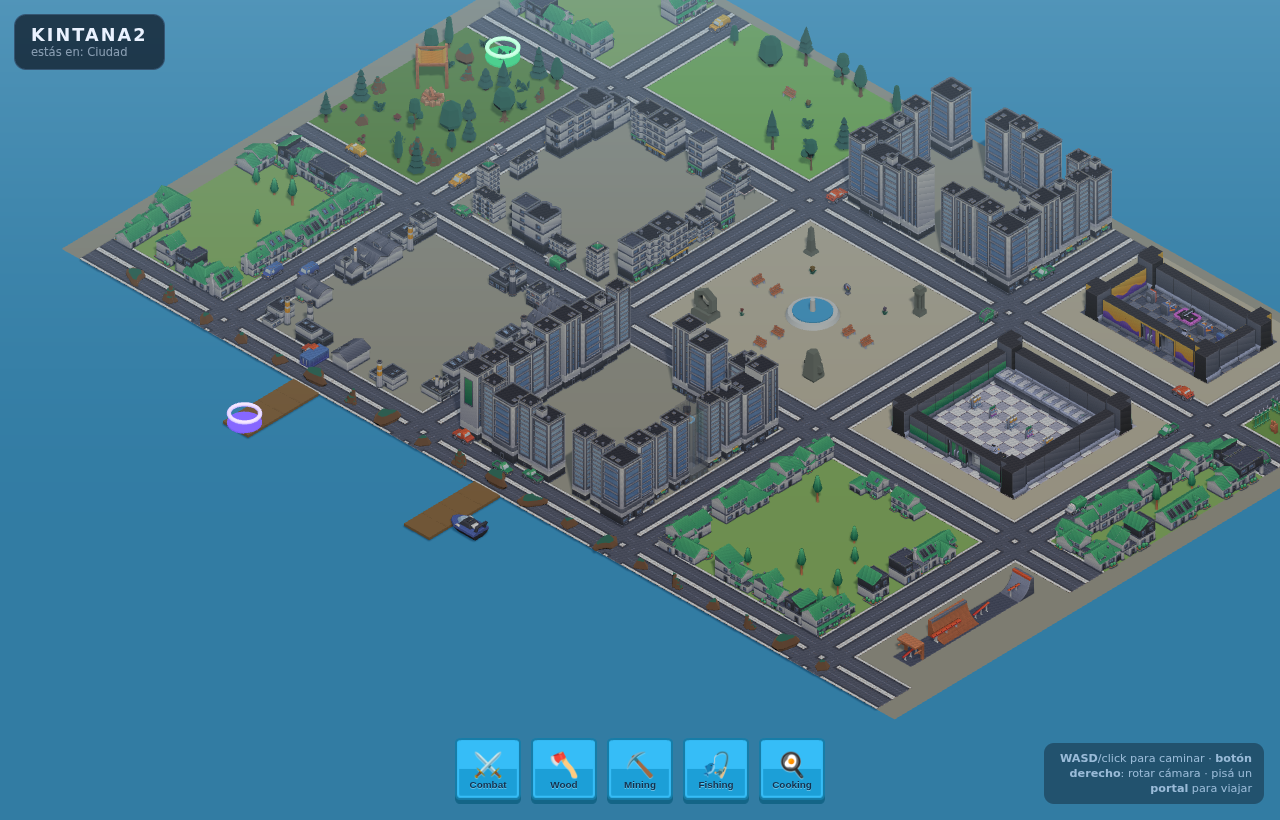
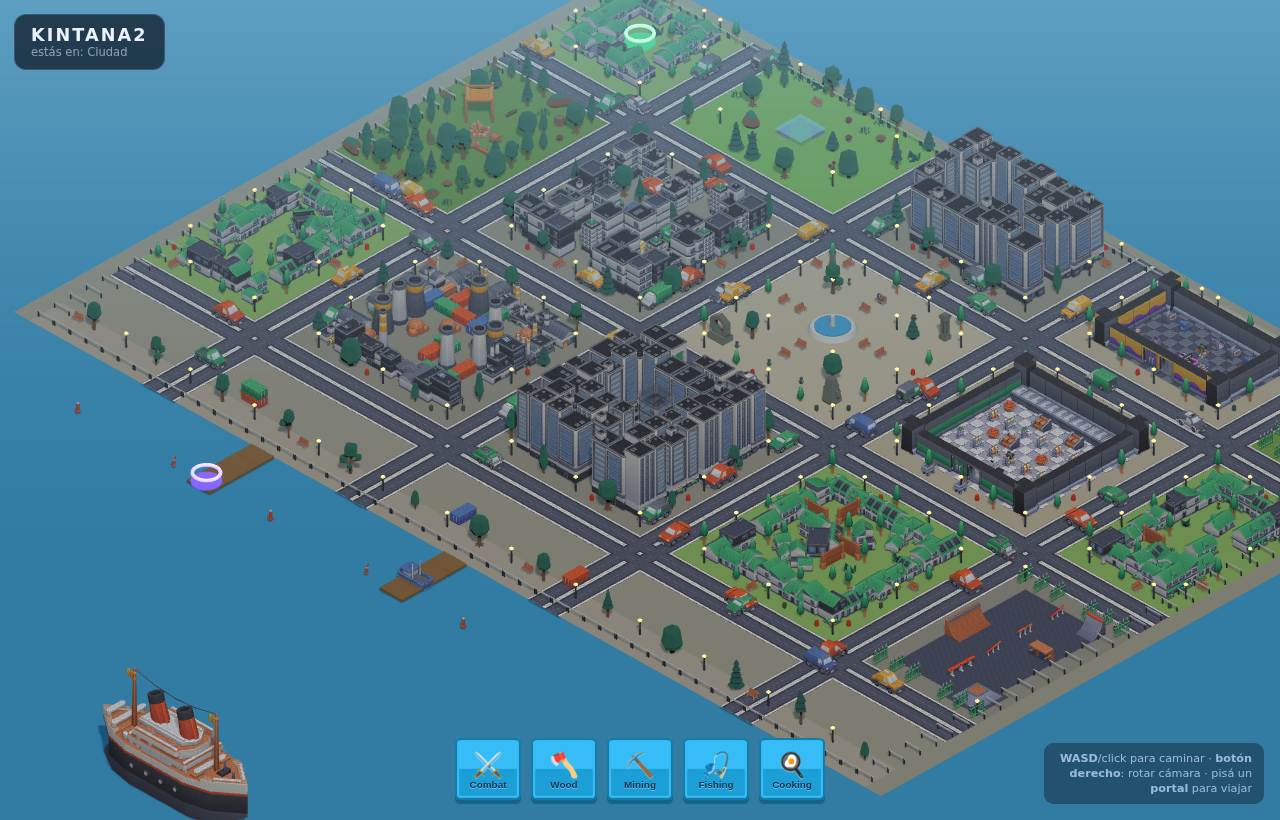
Densidad: ciudad mas grande y llena, mobiliario urbano, veredas anchas, autos mas grandes, mundos enriquecidos
- Ciudad 52x52 (mas grande) con manzanas grandes; edificios en mas anillos
  e INTERIORES LLENOS segun zona (torres, autos, contenedores, jardines)
- Mobiliario urbano en todas las veredas: faroles, arboles, bancos,
  hidrantes, tachos y autos estacionados (veredas anchas y caminables)
- Bordes del mapa = PROMENADE/vereda con baranda + faroles + bancos
  (en vez de rocas sobre la calle)
- Autos mas grandes (escala vs personaje corregida)
- Minimarket/arcade mas llenos (mas gondolas, displays, empleado, carritos)
- Mundo Pirata mas grande y denso (isla mayor, doble anillo de palmeras,
  muchos props, campamento, naufragio, mas barcos)
- Mundo Fantasy mas grande y lleno (castillo mayor, aldea con 4 hileras de
  casas, bosque denso a los lados, mazmorra con orcos, detalles de pasto)

Claude-Session: https://claude.ai/code/session_013RyYXym2YyWUM9xDY3qnKm

diff --git a/src/main.js b/src/main.js
@@ -51,7 +51,7 @@ function normalize(obj, o = {}) {
 }
 function optsFor(u) {
   if (u.includes('/roads/')) return { footprint: TILE }
-  if (u.includes('/cars/')) return { length: 0.92 }
+  if (u.includes('/cars/')) return { length: 1.5 }
   if (isChar(u)) return { height: CHAR_H }
   if (u.includes('skyscraper')) return { height: 3.2, maxFootprint: 1.35 }
   if (u.includes('/commercial/')) return { height: 1.7, maxFootprint: 1.2 }
@@ -181,18 +181,41 @@ function roadPiece(nb) { const n = nb.length; if (n >= 4) return { url: MODELS.r
 // ============================================================
 //  MUNDO: CIUDAD  (avenidas 2 tiles, manzanas grandes y abiertas)
 // ============================================================
-const AVX = new Set([6, 7, 17, 18, 28, 29, 39, 40])
-const AVZ = new Set([6, 7, 17, 18, 28, 29])
+const AVX = new Set([7, 8, 19, 20, 31, 32, 43, 44])
+const AVZ = new Set([7, 8, 19, 20, 31, 32])
+// mobiliario urbano procedural
+const lampMat = new THREE.MeshStandardMaterial({ color: 0x333941, roughness: 0.8 })
+const glowMat = new THREE.MeshStandardMaterial({ color: 0xffe9a8, emissive: 0xffd27a, emissiveIntensity: 0.9 })
+function addObj(o, gx, gz, { block = false, occ = false, y = 0, rotY = 0 } = {}) { o.position.set(worldX(gx), y, worldZ(gz)); o.rotation.y = rotY; worldGroup.add(o); if (occ) occluders.push(o); if (block && inGrid(gx, gz)) blocked[idx(gx, gz)] = 1; return o }
+function mkLamp() { const g = new THREE.Group(); const p = new THREE.Mesh(new THREE.CylinderGeometry(0.03, 0.045, 0.75, 8), lampMat); p.position.y = 0.37; const arm = new THREE.Mesh(new THREE.BoxGeometry(0.14, 0.09, 0.14), glowMat); arm.position.y = 0.76; g.add(p, arm); g.traverse(m => { if (m.isMesh) m.castShadow = true }); return g }
+function mkHydrant() { const g = new THREE.Group(); const m = new THREE.Mesh(new THREE.CylinderGeometry(0.08, 0.1, 0.26, 8), new THREE.MeshStandardMaterial({ color: 0xcc3322, roughness: 0.7 })); m.position.y = 0.13; m.castShadow = true; g.add(m); return g }
+function mkTrash() { const g = new THREE.Group(); const m = new THREE.Mesh(new THREE.CylinderGeometry(0.09, 0.08, 0.24, 10), new THREE.MeshStandardMaterial({ color: 0x3f5a48, roughness: 0.8 })); m.position.y = 0.12; m.castShadow = true; g.add(m); return g }
+function mkRail(rotY) { const g = new THREE.Group(); const b = new THREE.Mesh(new THREE.BoxGeometry(1.0, 0.06, 0.05), new THREE.MeshStandardMaterial({ color: 0xbcc2c8, roughness: 0.6 })); b.position.y = 0.28; const p1 = new THREE.Mesh(new THREE.BoxGeometry(0.05, 0.3, 0.05), lampMat); p1.position.set(-0.45, 0.15, 0); const p2 = p1.clone(); p2.position.x = 0.45; g.add(b, p1, p2); g.rotation.y = rotY; g.traverse(m => { if (m.isMesh) m.castShadow = true }); return g }
+// decora la vereda (anillo exterior de la manzana) con farol/arbol/banco/hidrante y autos estacionados
+function decorate(lo, hi, lz, hz, opts = {}) {
+  const treePool = opts.trees || MODELS.suburbTree
+  for (let x = lo; x <= hi; x++) for (let z = lz; z <= hz; z++) {
+    if (!(x === lo || x === hi || z === lz || z === hz)) continue
+    if (blocked[idx(x, z)]) continue
+    const along = (x === lo || x === hi) // vereda vertical
+    const s = (x + z)
+    if (s % 4 === 0) addObj(mkLamp(), x, z, { block: true })
+    else if (s % 4 === 2) place(pick(treePool, 'stree'), x, z, { rotY: rng() * 6.28, block: true })
+    else if (s % 7 === 1) addObj(mkHydrant(), x, z, { block: true })
+    else if (s % 9 === 4) place(MODELS.graveyard.bench, x, z, { rotY: along ? 0 : Math.PI / 2, block: true })
+    else if (s % 11 === 3) addObj(mkTrash(), x, z, { block: true })
+    // autos estacionados en el cordon (tiles pegados a la avenida)
+    else if (opts.parked && rng() < 0.28) { const nearRoad = isRoadC(x + (x === lo ? -1 : 1), z) || isRoadC(x, z + (z === lz ? -1 : 1)); if (nearRoad) { const c = inst(pick(MODELS.car, 'pk')); if (c) addObj(c, x, z, { block: true, rotY: along ? 0 : Math.PI / 2 }) } }
+  }
+}
 function buildCity() {
-  resetWorld(44, 7); COAST_Z = 30; currentWorld = 'city'
+  resetWorld(52, 7); COAST_Z = 38; currentWorld = 'city'
   scene.background.set(0x9fd3ef)
-  // agua alrededor (bordes) + isla
-  bigPlane(360, 0x3a9ad0, -0.22, true)
+  bigPlane(420, 0x3a9ad0, -0.22, true)
   const landS = worldZ(COAST_Z) - 0.5
   const lm = new THREE.Mesh(new THREE.PlaneGeometry(GRID + 2, landS - (worldZ(0) - 1)), new THREE.MeshStandardMaterial({ color: 0x9a9a90, roughness: 1 }))
   lm.rotation.x = -Math.PI / 2; lm.position.set(0, -0.01, (worldZ(0) - 1 + landS) / 2); lm.receiveShadow = true; worldGroup.add(lm); groundMeshes.push(lm)
   const isRoad = (x, z) => inGrid(x, z) && z < COAST_Z && (AVX.has(x) || AVZ.has(z))
-  // avenidas 2-wide (deterministico)
   for (let x = 0; x < GRID; x++) for (let z = 0; z < COAST_Z; z++) {
     if (!isRoad(x, z)) continue; roadTile[idx(x, z)] = 1
     const cx = AVX.has(x), cz = AVZ.has(z)
@@ -200,85 +223,111 @@ function buildCity() {
     else if (cx) place(MODELS.road.straight, x, z, { rotY: Math.PI / 2 })
     else place(MODELS.road.straight, x, z, { rotY: 0 })
   }
-  // bordes del mapa: rocas/barandas en la costa
-  for (let x = 2; x < GRID - 2; x += 2) place(pick(MODELS.nature.rock, 'br'), x, COAST_Z - 1, { rotY: rng() * 6.28 })
-  // manzanas
-  const BX = [[0, 5], [8, 16], [19, 27], [30, 38], [41, 43]], BZ = [[0, 5], [8, 16], [19, 27]]
+  // baranda de promenade en los bordes N/E/O del mapa
+  for (let x = 1; x < GRID - 1; x++) { addObj(mkRail(0), x, 0, {}); if (x % 5 === 0) addObj(mkLamp(), x, 0, { block: true }) }
+  for (let z = 1; z < COAST_Z; z++) { addObj(mkRail(Math.PI / 2), 0, z, {}); addObj(mkRail(Math.PI / 2), GRID - 1, z, {}) }
+  const BX = [[0, 6], [9, 18], [21, 30], [33, 42], [45, 51]], BZ = [[0, 6], [9, 18], [21, 30]]
   const PLAN = [
     ['resid', 'park', 'downtown', 'arcade', 'cemetery'],
     ['forest', 'commercial', 'plaza', 'market', 'resid'],
     ['resid', 'industrial', 'downtown', 'resid', 'skate'],
   ]
-  cityCarSpawn()
   for (let bz = 0; bz < BZ.length; bz++) for (let bx = 0; bx < BX.length; bx++) cityBlock(BX[bx], BZ[bz], PLAN[bz][bx])
   cityCoast()
-  return { x: 23, z: 22 } // spawn en la plaza (abierta)
+  spawnCars(40)
+  return { x: 25, z: 25 } // spawn en la plaza (abierta)
 }
-function ring2(x, z, lo, hi, lz, hz) { if (x === lo || x === hi || z === lz || z === hz) return 'edge'; return 'in' }
+const ringOf = (x, z, lo, hi, lz, hz) => Math.min(x - lo, hi - x, z - lz, hz - z)
 function faceOut(x, z, lo, hi, lz, hz) { const dl = x - lo, dr = hi - x, dt = z - lz, db = hz - z, m = Math.min(dl, dr, dt, db); if (m === dl) return Math.PI / 2; if (m === dr) return -Math.PI / 2; if (m === dt) return Math.PI; return 0 }
 function cityBlock(bx, bz, dist) {
   const [lo, hi] = bx, [lz, hz] = bz
-  const green = { resid: 0x86b165, forest: 0x5f8f43, park: 0x74b356 }[dist]; if (green) groundPatch(lo, hi, lz, hz, green, 0)
-  if (dist === 'plaza') cityPlaza(lo, hi, lz, hz)
-  else if (dist === 'park') cityPark(lo, hi, lz, hz)
-  else if (dist === 'forest') cityForest(lo, hi, lz, hz)
-  else if (dist === 'cemetery') cityCemetery(lo, hi, lz, hz)
-  else if (dist === 'market') buildShop(lo, hi, lz, hz, MODELS.market, false)
-  else if (dist === 'arcade') buildShop(lo, hi, lz, hz, MODELS.arcade, true)
-  else if (dist === 'skate') citySkate(lo, hi, lz, hz)
-  else { // downtown / commercial / industrial / resid: edificios en el borde, interior abierto
-    const pool = { downtown: MODELS.skyscraper, commercial: MODELS.commercial, industrial: MODELS.industrial, resid: MODELS.house }[dist]
-    const dens = { downtown: 0.85, commercial: 0.7, industrial: 0.65, resid: 0.7 }[dist]
-    for (let x = lo; x <= hi; x++) for (let z = lz; z <= hz; z++) {
-      if (ring2(x, z, lo, hi, lz, hz) === 'edge') { if (rng() < dens) place(pick(pool, dist), x, z, { rotY: faceOut(x, z, lo, hi, lz, hz), block: true, jitter: 0.04, occ: true }) }
-      else if (dist === 'resid' && rng() < 0.12) place(pick(MODELS.suburbTree, 'rt'), x, z, { rotY: rng() * 6.28, block: true })
+  const green = { resid: 0x86b165, forest: 0x5f8f43, park: 0x74b356 }[dist]
+  if (green) groundPatch(lo, hi, lz, hz, green, 0)
+  else if (['downtown', 'commercial', 'industrial'].includes(dist)) groundPatch(lo, hi, lz, hz, 0x8f8f86, 0.002)
+  if (dist === 'plaza') return cityPlaza(lo, hi, lz, hz)
+  if (dist === 'park') return cityPark(lo, hi, lz, hz)
+  if (dist === 'forest') return cityForest(lo, hi, lz, hz)
+  if (dist === 'cemetery') return cityCemetery(lo, hi, lz, hz)
+  if (dist === 'market') return buildShop(lo, hi, lz, hz, MODELS.market, false)
+  if (dist === 'arcade') return buildShop(lo, hi, lz, hz, MODELS.arcade, true)
+  if (dist === 'skate') return citySkate(lo, hi, lz, hz)
+  // downtown / commercial / industrial / resid
+  const pool = { downtown: MODELS.skyscraper, commercial: MODELS.commercial, industrial: MODELS.industrial, resid: MODELS.house }[dist]
+  const bRings = dist === 'downtown' ? 2 : 1
+  for (let x = lo; x <= hi; x++) for (let z = lz; z <= hz; z++) {
+    const r = ringOf(x, z, lo, hi, lz, hz)
+    if (r >= 1 && r <= bRings) { if (rng() < (dist === 'resid' ? 0.82 : 0.82)) place(pick(pool, dist), x, z, { rotY: faceOut(x, z, lo, hi, lz, hz), block: true, jitter: 0.03, occ: true }) }
+    else if (r > bRings) { // interior lleno segun zona
+      const rr = rng()
+      if (dist === 'downtown') { if (rr < 0.35) place(pick(MODELS.skyscraper, 'di'), x, z, { block: true, occ: true }); else if (rr < 0.5) place(pick(MODELS.commercial, 'dc'), x, z, { block: true, occ: true }); else if (rr < 0.6) addObj(mkLamp(), x, z, { block: true }); else if (rr < 0.68) place(pick(MODELS.nature.tree, 'dtt'), x, z, { rotY: rng() * 6.28, block: true }) }
+      else if (dist === 'commercial') { if (rr < 0.3) place(pick(MODELS.commercial, 'ci'), x, z, { block: true, occ: true }); else if (rr < 0.45) { const c = inst(pick(MODELS.car, 'cc')); if (c) addObj(c, x, z, { block: true, rotY: rng() < .5 ? 0 : Math.PI / 2 }) } else if (rr < 0.58) place(pick(MODELS.nature.tree, 'ctt'), x, z, { rotY: rng() * 6.28, block: true }); else if (rr < 0.66) place(MODELS.graveyard.bench, x, z, { block: true }) }
+      else if (dist === 'industrial') { if (rr < 0.3) place(pick(MODELS.chimney, 'ich'), x, z, { block: true, occ: true }); else if (rr < 0.5) place(pick(MODELS.port.container, 'icc'), x, z, { rotY: rng() < .5 ? 0 : Math.PI / 2, block: true }); else if (rr < 0.6) place(pick(MODELS.port.pile, 'ipl'), x, z, { block: true }); else if (rr < 0.7) place(pick(MODELS.survival.camp.slice(3, 6), 'ibar'), x, z, { block: true }) }
+      else { if (rr < 0.22) place(pick(MODELS.house, 'ri'), x, z, { rotY: rng() * 6.28, block: true, occ: true }); else if (rr < 0.45) place(pick(MODELS.suburbTree, 'rit'), x, z, { rotY: rng() * 6.28, block: true }); else if (rr < 0.6) place(pick([...MODELS.nature.plant, ...MODELS.nature.flower], 'rif'), x, z, {}); else if (rr < 0.68) place(MODELS.fence, x, z, { rotY: rng() < .5 ? 0 : Math.PI / 2, block: true }) }
     }
   }
+  decorate(lo, hi, lz, hz, { parked: dist !== 'resid', trees: dist === 'resid' ? MODELS.suburbTree : MODELS.nature.tree })
 }
 function cityPlaza(lo, hi, lz, hz) {
   const cx = (lo + hi) / 2 | 0, cz = (lz + hz) / 2 | 0
   groundPatch(lo, hi, lz, hz, 0xb9b4a3, 0.005)
-  placeW((() => { const g = new THREE.Group(); g.add(new THREE.Mesh(new THREE.CylinderGeometry(1.0, 1.1, 0.18, 28), new THREE.MeshStandardMaterial({ color: 0xc7ccd1 })).translateY(0.09), new THREE.Mesh(new THREE.CylinderGeometry(0.82, 0.82, 0.16, 28), new THREE.MeshStandardMaterial({ color: 0x4aa3d8, roughness: 0.3 })).translateY(0.15), new THREE.Mesh(new THREE.CylinderGeometry(0.1, 0.13, 0.6, 12), new THREE.MeshStandardMaterial({ color: 0xc7ccd1 })).translateY(0.45)); g.traverse(m => { if (m.isMesh) { m.castShadow = true; m.receiveShadow = true } }); worldGroup.add(g); g.position.set(worldX(cx), 0, worldZ(cz)); return null })(), cx, cz)
-  blocked[idx(cx, cz)] = 1
-  // ruleta de premios (como en Kintara) a un lado
-  place(MODELS.arcade.wheel, cx, cz - 2, { block: true })
-  // estatuas + bancos + flores simetricos en el borde interior
-  for (const [x, z, i] of [[lo + 1, lz + 1, 0], [hi - 1, lz + 1, 1], [lo + 1, hz - 1, 2], [hi - 1, hz - 1, 3]]) place(MODELS.nature.statue[i % MODELS.nature.statue.length], x, z, { block: true })
-  for (let d = 2; d <= 3; d++) for (const [x, z] of [[cx - d, cz], [cx + d, cz], [cx, cz + d]]) if (inGrid(x, z)) place(MODELS.graveyard.bench, x, z, { rotY: (z === cz ? Math.PI / 2 : 0), block: true })
-  for (const [x, z] of [[lo + 2, lz + 2], [hi - 2, lz + 2], [lo + 2, hz - 2], [hi - 2, hz - 2]]) place(pick(MODELS.nature.flower, 'pf'), x, z, {})
+  const g = new THREE.Group(); g.add(new THREE.Mesh(new THREE.CylinderGeometry(1.0, 1.1, 0.18, 28), new THREE.MeshStandardMaterial({ color: 0xc7ccd1 })).translateY(0.09), new THREE.Mesh(new THREE.CylinderGeometry(0.82, 0.82, 0.16, 28), new THREE.MeshStandardMaterial({ color: 0x4aa3d8, roughness: 0.3 })).translateY(0.15), new THREE.Mesh(new THREE.CylinderGeometry(0.1, 0.13, 0.6, 12), new THREE.MeshStandardMaterial({ color: 0xc7ccd1 })).translateY(0.45)); g.traverse(m => { if (m.isMesh) { m.castShadow = true; m.receiveShadow = true } }); g.position.set(worldX(cx), 0, worldZ(cz)); worldGroup.add(g); blocked[idx(cx, cz)] = 1
+  place(MODELS.arcade.wheel, cx, cz - 3, { block: true })
+  // estatuas + arboles en las 4 esquinas interiores
+  for (const [x, z, i] of [[lo + 1, lz + 1, 0], [hi - 1, lz + 1, 1], [lo + 1, hz - 1, 2], [hi - 1, hz - 1, 3]]) { place(MODELS.nature.statue[i % MODELS.nature.statue.length], x, z, { block: true }); place(pick(MODELS.nature.tree, 'pzt'), x + (x < cx ? 1 : -1), z + (z < cz ? 1 : -1), { block: true }) }
+  // anillo de bancos + faroles + flores alrededor de la fuente
+  for (let d = 2; d <= 3; d++) for (const [x, z] of [[cx - d, cz], [cx + d, cz], [cx, cz - d], [cx, cz + d]]) { const gx = x | 0, gz = z | 0; if (inGrid(gx, gz)) place(MODELS.graveyard.bench, gx, gz, { rotY: (z === cz ? Math.PI / 2 : 0), block: true }) }
+  for (const [x, z] of [[cx - 2, cz - 2], [cx + 2, cz - 2], [cx - 2, cz + 2], [cx + 2, cz + 2]]) { addObj(mkLamp(), x, z, { block: true }) }
+  for (let x = lo + 2; x <= hi - 2; x += 2) { place(pick(MODELS.nature.flower, 'pzf'), x, lz + 1, {}); place(pick(MODELS.nature.flower, 'pzf'), x, hz - 1, {}) }
+  decorate(lo, hi, lz, hz, {})
 }
-function cityPark(lo, hi, lz, hz) { // parque MUY verde con arboles/flores, caminable
-  for (let x = lo; x <= hi; x++) for (let z = lz; z <= hz; z++) { const r = rng(); if ((x === lo || x === hi || z === lz || z === hz) && r < 0.35) place(pick(MODELS.nature.tree, 'pkt'), x, z, { rotY: rng() * 6.28, block: true }); else if (r < 0.12) place(pick([...MODELS.nature.flower, ...MODELS.nature.plant], 'pkf'), x, z, {}); else if (r < 0.16) place(pick(MODELS.nature.tree, 'pkt'), x, z, { rotY: rng() * 6.28, block: true }) }
-  place(MODELS.graveyard.bench, (lo + hi) / 2 | 0, (lz + hz) / 2 | 0, { block: true })
+function scatter(lo, hi, lz, hz, fn) { for (let x = lo; x <= hi; x++) for (let z = lz; z <= hz; z++) fn(x, z) }
+function cityPark(lo, hi, lz, hz) { // MUY verde y denso, caminable
+  const cx = (lo + hi) / 2 | 0, cz = (lz + hz) / 2 | 0
+  scatter(lo, hi, lz, hz, (x, z) => {
+    if (Math.abs(x - cx) <= 1 && Math.abs(z - cz) <= 1) return
+    const edge = x === lo || x === hi || z === lz || z === hz, r = rng()
+    if (edge) { if (r < 0.5) place(pick(MODELS.nature.tree, 'pkt'), x, z, { rotY: rng() * 6.28, block: true }); else if (r < 0.7) place(pick(MODELS.nature.plant, 'pkp'), x, z, {}) }
+    else if (r < 0.22) place(pick(MODELS.nature.tree, 'pkt'), x, z, { rotY: rng() * 6.28, block: true })
+    else if (r < 0.42) place(pick([...MODELS.nature.flower, ...MODELS.nature.plant, ...MODELS.nature.mushroom], 'pkf'), x, z, {})
+    else if (r < 0.5) place(pick(MODELS.nature.rock, 'pkr'), x, z, { rotY: rng() * 6.28, block: true })
+    else if (r < 0.55) place(MODELS.graveyard.bench, x, z, { rotY: rng() < .5 ? 0 : Math.PI / 2, block: true })
+  })
+  place(MODELS.fantasy.fountainCenter, cx, cz, { block: true })
+  for (const [x, z] of [[lo + 1, lz + 1], [hi - 1, hz - 1], [lo + 1, hz - 1], [hi - 1, lz + 1]]) addObj(mkLamp(), x, z, { block: true })
 }
 function cityForest(lo, hi, lz, hz) {
   const cx = (lo + hi) / 2 | 0, cz = (lz + hz) / 2 | 0
-  for (let x = lo; x <= hi; x++) for (let z = lz; z <= hz; z++) { if (Math.abs(x - cx) <= 1 && Math.abs(z - cz) <= 1) continue; const r = rng(); if (r < 0.5) place(pick(MODELS.nature.tree, 'ft'), x, z, { rotY: rng() * 6.28, block: true }); else if (r < 0.6) place(pick(MODELS.nature.rock, 'fr'), x, z, { rotY: rng() * 6.28, block: true }); else if (r < 0.75) place(pick([...MODELS.nature.plant, ...MODELS.nature.mushroom], 'fp'), x, z, {}) }
-  place(MODELS.survival.camp[0], cx, cz, { block: true }); place(pick(MODELS.survival.tent, 'tt'), cx - 1, cz - 1, { rotY: Math.PI / 4, block: true }); place('assets/survival/chest.glb', cx + 1, cz, { block: true })
+  scatter(lo, hi, lz, hz, (x, z) => { if (Math.abs(x - cx) <= 1 && Math.abs(z - cz) <= 1) return; const r = rng(); if (r < 0.58) place(pick(MODELS.nature.tree, 'ft'), x, z, { rotY: rng() * 6.28, block: true }); else if (r < 0.7) place(pick(MODELS.nature.rock, 'fr'), x, z, { rotY: rng() * 6.28, block: true }); else if (r < 0.85) place(pick([...MODELS.nature.plant, ...MODELS.nature.mushroom, ...MODELS.nature.stump], 'fp'), x, z, {}) })
+  place(MODELS.survival.camp[0], cx, cz, { block: true }); place(pick(MODELS.survival.tent, 'tt'), cx - 1, cz - 1, { rotY: Math.PI / 4, block: true }); place('assets/survival/chest.glb', cx + 1, cz, { block: true }); place('assets/survival/resource-wood.glb', cx + 1, cz + 1, {}); place(pick(MODELS.survival.rock, 'sr'), cx - 1, cz + 1, { block: true })
 }
-function cityCemetery(lo, hi, lz, hz) { // con CESPED + muchos elementos
+function cityCemetery(lo, hi, lz, hz) { // CESPED + denso
   groundPatch(lo, hi, lz, hz, 0x6f9a4e, 0.004)
   const gate = (lo + hi) / 2 | 0
-  for (let x = lo; x <= hi; x++) for (let z = lz; z <= hz; z++) {
+  scatter(lo, hi, lz, hz, (x, z) => {
     const edge = x === lo || x === hi || z === lz || z === hz
-    if (edge) { if (z === hz && x === gate) place(MODELS.graveyard.gate, x, z, { rotY: 0 }); else place(MODELS.graveyard.fence, x, z, { rotY: (z === lz || z === hz) ? Math.PI / 2 : 0, block: true }); continue }
-    if (z === lz + 1) { if ((x - lo) % 2 === 0) place(pick(MODELS.graveyard.crypt, 'cy'), x, z, { rotY: Math.PI, block: true }) }
-    else if (x === gate && z > lz) { if (z % 2 === 0) place(MODELS.graveyard.lantern, x, z, {}) } // camino central con faroles
-    else if ((z - lz) % 2 === 0) place(pick(MODELS.graveyard.props, 'gr'), x, z, { rotY: Math.PI, block: true })
-    else if (rng() < 0.25) place(MODELS.graveyard.tree, x, z, { block: true })
-    else if (rng() < 0.15) place(MODELS.graveyard.bench, x, z, { rotY: Math.PI / 2, block: true })
-  }
+    if (edge) { if (z === hz && x === gate) place(MODELS.graveyard.gate, x, z, { rotY: 0 }); else place(MODELS.graveyard.fence, x, z, { rotY: (z === lz || z === hz) ? Math.PI / 2 : 0, block: true }); return }
+    if (z <= lz + 2 && (x - lo) % 2 === 0) { place(pick(MODELS.graveyard.crypt, 'cy'), x, z, { rotY: Math.PI, block: true }); return }
+    if (x === gate) { if (z % 2 === 0) addObj(mkLamp(), x, z, { block: true }); return } // camino central
+    const r = rng()
+    if (r < 0.6) place(pick(MODELS.graveyard.props, 'gr'), x, z, { rotY: Math.PI + (rng() - .5) * .2, block: true })
+    else if (r < 0.72) place(MODELS.graveyard.tree, x, z, { block: true })
+    else if (r < 0.8) place(MODELS.graveyard.bench, x, z, { rotY: Math.PI / 2, block: true })
+  })
 }
 function citySkate(lo, hi, lz, hz) {
-  groundPatch(lo, hi, lz, hz, 0x9a9a90, 0.004)
+  groundPatch(lo, hi, lz, hz, 0x8f8f88, 0.004)
   for (let x = lo + 1; x <= hi - 1; x++) for (let z = lz + 1; z <= hz - 1; z++) place(MODELS.skate.floor, x, z, { y: 0.01 })
-  place(MODELS.skate.halfpipe, lo + 1, (lz + hz) / 2 | 0, { rotY: Math.PI / 2, block: true }); place(MODELS.skate.halfpipe, lo + 1, ((lz + hz) / 2 | 0) + 1, { rotY: Math.PI / 2, block: true })
+  for (let x = lo; x <= hi; x++) { if (x !== gateOf(lo, hi)) { place(MODELS.graveyard.fence, x, lz, { rotY: Math.PI / 2, block: true }); place(MODELS.graveyard.fence, x, hz, { rotY: Math.PI / 2, block: true }) } }
+  const mz = (lz + hz) / 2 | 0
+  place(MODELS.skate.halfpipe, lo + 1, mz, { rotY: Math.PI / 2, block: true }); place(MODELS.skate.halfpipe, lo + 1, mz + 1, { rotY: Math.PI / 2, block: true })
   for (let z = lz + 1; z <= hz - 1; z += 2) place(pick(MODELS.skate.rail, 'sr'), (lo + hi) / 2 | 0, z, { block: true })
-  place(MODELS.skate.bowl, hi - 1, lz + 1, { block: true }); place(pick(MODELS.skate.obstacle, 'so'), hi - 1, hz - 1, { block: true })
+  place(MODELS.skate.bowl, hi - 1, lz + 1, { block: true }); place(pick(MODELS.skate.obstacle, 'so'), hi - 1, hz - 1, { block: true }); place(pick(MODELS.skate.obstacle, 'so'), hi - 1, mz, { block: true })
+  for (const [x, z] of [[lo, lz], [hi, hz]]) addObj(mkLamp(), x, z, { block: true })
 }
-// tienda/arcade con paredes, puerta, ventanilla, interior — se ENTRA
+const gateOf = (lo, hi) => (lo + hi) / 2 | 0
+// tienda/arcade con paredes, puerta, ventanilla, interior LLENO — se ENTRA
 function buildShop(lo, hi, lz, hz, kit, isArcade) {
-  groundPatch(lo, hi, lz, hz, 0xb8b3a2, 0.004)
+  groundPatch(lo, hi, lz, hz, 0xb0aa98, 0.004)
   const x0 = lo + 1, x1 = hi - 1, z0 = lz + 1, z1 = hz - 1, doorX = (x0 + x1) / 2 | 0, winX = doorX + 1
   for (let x = x0; x <= x1; x++) for (let z = z0; z <= z1; z++) {
     place(kit.floor, x, z, { y: 0.01 })
@@ -291,43 +340,49 @@ function buildShop(lo, hi, lz, hz, kit, isArcade) {
     place(corner ? kit.wallCorner : kit.wall, x, z, { rotY, block: true, occ: true })
   }
   place(kit.cash, winX, z1 - 1, { rotY: Math.PI, block: true })
-  if (isArcade) { for (let z = z0 + 1; z <= z1 - 1; z += 2) for (let x = x0 + 1; x <= x1 - 1; x++) place(pick(kit.machine, 'am'), x, z, { rotY: Math.PI, block: true }) }
-  else { for (let z = z0 + 1; z <= z1 - 2; z += 2) for (let x = x0 + 1; x <= x1 - 1; x++) place(pick(kit.shelf, 'sh'), x, z, { rotY: Math.PI / 2, block: true }); for (let x = x0 + 1; x <= x1 - 1; x++) place(kit.freezer, x, z0 + 1, { rotY: Math.PI, block: true }) }
+  place(kit.employee || MODELS.market.employee, winX, z1 - 2, {})
+  if (isArcade) { for (let z = z0 + 1; z <= z1 - 1; z++) for (let x = x0 + 1; x <= x1 - 1; x++) if ((z - z0) % 2 === 1 && x !== doorX) place(pick(kit.machine, 'am'), x, z, { rotY: (z - z0) < (z1 - z0) / 2 ? Math.PI : 0, block: true }) }
+  else { for (let z = z0 + 1; z <= z1 - 2; z++) for (let x = x0 + 1; x <= x1 - 1; x++) { if ((z - z0) % 2 === 1) place(pick(kit.shelf, 'sh'), x, z, { rotY: Math.PI / 2, block: true }); else if (rng() < 0.5) place(pick(kit.display || kit.shelf, 'ds'), x, z, {}) } for (let x = x0 + 1; x <= x1 - 1; x++) place(kit.freezer, x, z0 + 1, { rotY: Math.PI, block: true }); place(MODELS.market.cart, doorX + 1, z1 + 1, {}); place(MODELS.market.cart, doorX - 1, z1 + 1, {}) }
+  decorate(lo, hi, lz, hz, {})
 }
-function cityCarSpawn() { spawnCars(24) }
-function cityCoast() { // puerto + portal al mundo pirata
+function cityCoast() { // promenade + puerto + portales
   const promZ = COAST_Z - 1
-  for (let x = 8; x < 30; x++) if (rng() < 0.16) { const st = 1 + Math.floor(rng() * 2); for (let s = 0; s < st; s++) place(pick(MODELS.port.container, 'ct'), x, promZ - 1, { y: s * 0.42, rotY: rng() < 0.5 ? 0 : Math.PI / 2, block: s === 0, occ: s === 0 }) }
-  for (const px of [12, 22]) { for (let d = 0; d < 4; d++) { const gz = COAST_Z + d; const pl = new THREE.Mesh(new THREE.BoxGeometry(1.4, 0.12, 1.02), new THREE.MeshStandardMaterial({ color: 0x8a6a44, roughness: 1 })); pl.position.set(worldX(px), -0.02, worldZ(gz)); pl.castShadow = pl.receiveShadow = true; worldGroup.add(pl); if (inGrid(px, gz)) blocked[idx(px, gz)] = 0 } }
+  groundPatch(0, GRID - 1, promZ - 1, promZ, 0xa9a49a, 0.003) // paseo costero (vereda)
+  for (let x = 1; x < GRID - 1; x++) { addObj(mkRail(0), x, promZ, {}); if (x % 4 === 0) addObj(mkLamp(), x, promZ - 1, { block: true }); else if (x % 4 === 2) place(pick(MODELS.nature.tree, 'pmt'), x, promZ - 1, { rotY: rng() * 6.28, block: true }); else if (x % 7 === 1) place(MODELS.graveyard.bench, x, promZ - 1, { block: true }) }
+  for (let x = 8; x < 34; x++) if (rng() < 0.18) { const st = 1 + Math.floor(rng() * 2); for (let s = 0; s < st; s++) place(pick(MODELS.port.container, 'ct'), x, promZ - 2, { y: s * 0.42, rotY: rng() < 0.5 ? 0 : Math.PI / 2, block: s === 0, occ: s === 0 }) }
+  for (const px of [14, 26]) for (let d = 0; d < 4; d++) { const gz = COAST_Z + d; const pl = new THREE.Mesh(new THREE.BoxGeometry(1.4, 0.12, 1.02), new THREE.MeshStandardMaterial({ color: 0x8a6a44, roughness: 1 })); pl.position.set(worldX(px), -0.02, worldZ(gz)); pl.castShadow = pl.receiveShadow = true; worldGroup.add(pl); if (inGrid(px, gz)) blocked[idx(px, gz)] = 0 }
   const s1 = placeW(MODELS.port.ships[0], worldX(4), worldZ(GRID + 4), { y: -0.15, rotY: Math.PI / 2 }); if (s1) watercraft.push({ o: s1, vx: 0.5 })
-  const b1 = placeW(pick(MODELS.port.boats, 'pb'), worldX(24), worldZ(COAST_Z + 2), { y: -0.12, rotY: -Math.PI / 2 }); if (b1) watercraft.push({ o: b1, vx: -0.3 })
-  // PORTAL al mundo pirata (en el muelle)
-  addPortal(12, COAST_Z + 3, 'pirate', 0x7a5cff)
-  // PORTAL al mundo fantasy (en el bosque, esquina NO)
-  addPortal(2, 8, 'fantasy', 0x2fbf6a)
+  const s2 = placeW(MODELS.port.ships[1] || MODELS.port.ships[0], worldX(30), worldZ(GRID + 7), { y: -0.15, rotY: Math.PI / 2 }); if (s2) watercraft.push({ o: s2, vx: 0.35 })
+  const b1 = placeW(pick(MODELS.port.boats, 'pb'), worldX(26), worldZ(COAST_Z + 2), { y: -0.12, rotY: -Math.PI / 2 }); if (b1) watercraft.push({ o: b1, vx: -0.3 })
+  for (let i = 0; i < 5; i++) place(pick(MODELS.port.buoy, 'bu'), 6 + i * 6, COAST_Z + 3, { y: -0.08 })
+  addPortal(14, COAST_Z + 3, 'pirate', 0x7a5cff)
+  addPortal(3, 3, 'fantasy', 0x2fbf6a)
 }
 
 // ============================================================
 //  MUNDO: PIRATA (océano + islas + barcos + portal de vuelta)
 // ============================================================
 function buildPirate() {
-  resetWorld(40, 21); COAST_Z = GRID; currentWorld = 'pirate'
+  resetWorld(48, 21); COAST_Z = GRID; currentWorld = 'pirate'
   scene.background.set(0x7fc8ea)
-  bigPlane(400, 0x2f83b8, -0.2, true)
-  // isla central de arena (caminable)
-  const cx = 20, cz = 20
-  for (let x = 0; x < GRID; x++) for (let z = 0; z < GRID; z++) { const d = Math.hypot(x - cx, z - cz); blocked[idx(x, z)] = d < 13 ? 0 : 1 }
-  const island = groundPatch(cx - 13, cx + 13, cz - 13, cz + 13, 0xe0cf94, 0, true)
-  island.geometry = new THREE.CircleGeometry(13, 40); island.rotation.x = -Math.PI / 2
-  // palmeras/rocas en el borde de la isla, props pirata
-  for (let a = 0; a < 40; a++) { const ang = a / 40 * Math.PI * 2, x = Math.round(cx + Math.cos(ang) * 11), z = Math.round(cz + Math.sin(ang) * 11); if (inGrid(x, z)) place(pick(MODELS.pirate.palm, 'pp'), x, z, { rotY: rng() * 6.28, block: true }) }
-  for (let i = 0; i < 24; i++) { const x = cx - 8 + Math.floor(rng() * 16), z = cz - 8 + Math.floor(rng() * 16); if (inGrid(x, z) && !blocked[idx(x, z)]) { const r = rng(); if (r < 0.4) place(pick(MODELS.pirate.prop, 'pr'), x, z, { rotY: rng() * 6.28, block: true }); else if (r < 0.5) place(pick(MODELS.pirate.sand, 'ps'), x, z, {}) } }
-  place(MODELS.pirate.tower, cx + 4, cz - 4, { block: true, occ: true }); place(MODELS.pirate.flag[0], cx - 4, cz - 4, { block: true })
-  // muelle + barcos pirata moviles alrededor
-  for (let d = 0; d < 5; d++) { const gz = cz + 13 + d; const pl = new THREE.Mesh(new THREE.BoxGeometry(1.4, 0.12, 1.02), new THREE.MeshStandardMaterial({ color: 0x8a6a44, roughness: 1 })); pl.position.set(worldX(cx), -0.02, worldZ(gz)); pl.castShadow = pl.receiveShadow = true; worldGroup.add(pl); if (inGrid(cx, gz)) blocked[idx(cx, gz)] = 0 }
-  for (let i = 0; i < 5; i++) { const ship = placeW(pick(MODELS.pirate.ship, 'psh'), worldX(3 + i * 8), worldZ(4 + (i % 2) * 30), { y: -0.15, rotY: Math.PI / 2 }); if (ship) watercraft.push({ o: ship, vx: 0.4 + rng() * 0.4 }) }
-  addPortal(cx, cz, 'city', 0x7a5cff) // portal de vuelta en el centro
-  return { x: cx, z: cz + 15 } // spawn en el muelle
+  bigPlane(440, 0x2f83b8, -0.2, true)
+  const cx = 24, cz = 24, R = 17
+  for (let x = 0; x < GRID; x++) for (let z = 0; z < GRID; z++) blocked[idx(x, z)] = Math.hypot(x - cx, z - cz) < R ? 0 : 1
+  const island = groundPatch(cx - R, cx + R, cz - R, cz + R, 0xe0cf94, 0, true); island.geometry = new THREE.CircleGeometry(R, 48); island.rotation.x = -Math.PI / 2
+  // pasto interior + dos anillos de palmeras
+  const grass = new THREE.Mesh(new THREE.CircleGeometry(R - 4, 40), new THREE.MeshStandardMaterial({ color: 0x8fae5a, roughness: 1 })); grass.rotation.x = -Math.PI / 2; grass.position.set(worldX(cx), 0.006, worldZ(cz)); worldGroup.add(grass)
+  for (const rr of [R - 1, R - 3]) for (let a = 0; a < 44; a++) { const ang = a / 44 * Math.PI * 2, x = Math.round(cx + Math.cos(ang) * rr), z = Math.round(cz + Math.sin(ang) * rr); if (inGrid(x, z) && !blocked[idx(x, z)] && rng() < 0.7) place(pick(MODELS.pirate.palm, 'pp'), x, z, { rotY: rng() * 6.28, block: true }) }
+  // props pirata densos por toda la isla
+  for (let i = 0; i < 90; i++) { const x = cx - 12 + Math.floor(rng() * 24), z = cz - 12 + Math.floor(rng() * 24); if (!inGrid(x, z) || blocked[idx(x, z)] || Math.hypot(x - cx, z - cz) > R - 2) continue; const r = rng(); if (r < 0.35) place(pick(MODELS.pirate.prop, 'pr'), x, z, { rotY: rng() * 6.28, block: true }); else if (r < 0.5) place(pick(MODELS.pirate.sand, 'ps'), x, z, {}); else if (r < 0.6) place(pick(MODELS.nature.plant, 'ppl'), x, z, {}); else if (r < 0.68) place(pick(MODELS.survival.rock, 'psr'), x, z, { block: true }) }
+  // campamento pirata + torre + banderas
+  place(MODELS.pirate.tower, cx + 6, cz - 6, { block: true, occ: true }); place(MODELS.pirate.flag[0], cx - 6, cz - 6, { block: true }); place(MODELS.pirate.flag[1] || MODELS.pirate.flag[0], cx + 6, cz + 6, { block: true })
+  place(MODELS.survival.camp[0], cx - 3, cz + 2, { block: true }); place(pick(MODELS.survival.tent, 'pt'), cx - 4, cz + 3, { rotY: Math.PI / 4, block: true }); place('assets/pirate/chest.glb', cx + 3, cz - 2, { block: true }); place('assets/pirate/cannon.glb', cx + 2, cz + 3, { block: true })
+  // muelle + barcos pirata moviles
+  for (let d = 0; d < 6; d++) { const gz = cz + R + d - 1; const pl = new THREE.Mesh(new THREE.BoxGeometry(1.4, 0.12, 1.02), new THREE.MeshStandardMaterial({ color: 0x8a6a44, roughness: 1 })); pl.position.set(worldX(cx), -0.02, worldZ(gz)); pl.castShadow = pl.receiveShadow = true; worldGroup.add(pl); if (inGrid(cx, gz)) blocked[idx(cx, gz)] = 0 }
+  placeW(MODELS.pirate.wreck, worldX(6), worldZ(8), { y: -0.2, rotY: 0.6 })
+  for (let i = 0; i < 7; i++) { const ship = placeW(pick(MODELS.pirate.ship, 'psh'), worldX(2 + i * 6), worldZ(3 + (i % 3) * 20), { y: -0.15, rotY: Math.PI / 2 }); if (ship) watercraft.push({ o: ship, vx: 0.35 + rng() * 0.5 }) }
+  addPortal(cx, cz, 'city', 0x7a5cff)
+  return { x: cx, z: cz + R + 1 }
 }
 
 // ============================================================
@@ -338,34 +393,37 @@ function cottage(gx, gz, rotY) {
   place(MODELS.fantasy.roofTop, gx, gz, { rotY, y: (cache.get(MODELS.fantasy.wall)?.userData.h || 1) * 0.9, occ: true })
 }
 function buildFantasy() {
-  resetWorld(40, 33); COAST_Z = GRID; currentWorld = 'fantasy'
+  resetWorld(46, 33); COAST_Z = GRID; currentWorld = 'fantasy'
   scene.background.set(0xa7d8b0)
-  bigPlane(400, 0x74a352, -0.02, true) // pasto
-  // caminos de tierra
-  for (let x = 4; x < GRID - 4; x++) place(MODELS.road.straight, x, 20, { rotY: 0, y: 0.005 })
-  for (let z = 4; z < GRID - 4; z++) place(MODELS.road.straight, 20, z, { rotY: Math.PI / 2, y: 0.005 })
-  // plaza de aldea con fuente medieval (centro)
-  place(MODELS.fantasy.fountainCenter, 20, 20, { block: true })
-  for (const [x, z] of [[18, 18], [22, 18], [18, 22], [22, 22]]) place(pick(MODELS.fantasy.cart, 'fc'), x, z, { rotY: rng() * 6.28, block: true })
-  for (const [x, z] of [[19, 17], [21, 17], [19, 23], [21, 23]]) place(MODELS.fantasy.lantern, x, z, {})
-  // hilera de casas (aldea) al oeste
-  for (let z = 12; z <= 28; z += 2) { cottage(12, z, Math.PI / 2); place(pick(MODELS.fantasy.hedge, 'fh'), 13, z, { block: true }) }
-  for (let z = 12; z <= 28; z += 2) cottage(28, z, -Math.PI / 2)
-  // castillo al norte (torres + muros + porton)
-  const cxs = [10, 14, 24, 28], cz0 = 5
-  for (const x of cxs) { place(MODELS.castle.towerBase, x, cz0, { block: true, occ: true }); place(MODELS.castle.towerMid, x, cz0, { y: 1.2, occ: true }); place(MODELS.castle.towerTop, x, cz0, { y: 2.4, occ: true }); place(MODELS.castle.flag[0], x, cz0, { y: 3.4 }) }
-  for (let x = 10; x <= 28; x++) if (!cxs.includes(x)) place(x === 19 ? MODELS.castle.gate : MODELS.castle.wall, x, cz0 + 1, { block: x !== 19, occ: true })
-  // bosque denso al este
-  for (let x = 30; x < GRID - 2; x++) for (let z = 8; z < GRID - 8; z++) { const r = rng(); if (r < 0.5) place(pick(MODELS.nature.tree, 'ff'), x, z, { rotY: rng() * 6.28, block: true }); else if (r < 0.6) place(pick(MODELS.nature.rock, 'fr'), x, z, { block: true }) }
-  // entrada a mazmorra al sur (props dungeon)
-  groundPatch(15, 25, 30, 36, 0x5a5148, 0.004)
-  place(MODELS.dungeon.gate, 20, 31, { block: true, occ: true })
-  for (const [x, z] of [[18, 33], [22, 33], [17, 35], [23, 35]]) place(pick([MODELS.dungeon.barrel, MODELS.dungeon.chest, MODELS.dungeon.column, MODELS.dungeon.rocks], 'dg'), x, z, { block: true })
-  place(MODELS.dungeon.orc, 20, 34, {})
-  // rocas de borde
-  for (let a = 0; a < 30; a++) { const ang = a / 30 * Math.PI * 2, x = Math.round(20 + Math.cos(ang) * 18), z = Math.round(20 + Math.sin(ang) * 18); if (inGrid(x, z)) place(pick(MODELS.castle.rocks, 'cr'), x, z, { block: true }) }
-  addPortal(20, 26, 'city', 0x2fbf6a)
-  return { x: 20, z: 24 }
+  bigPlane(420, 0x74a352, -0.02, true)
+  const C = 23
+  // caminos de tierra (cruz)
+  for (let x = 4; x < GRID - 4; x++) place(MODELS.road.straight, x, C, { rotY: 0, y: 0.005 })
+  for (let z = 4; z < GRID - 4; z++) place(MODELS.road.straight, C, z, { rotY: Math.PI / 2, y: 0.005 })
+  // plaza de aldea (fuente + carros + puestos + banderas + faroles)
+  place(MODELS.fantasy.fountainCenter, C, C, { block: true })
+  for (const [x, z] of [[C - 2, C - 2], [C + 2, C - 2], [C - 2, C + 2], [C + 2, C + 2]]) place(pick(MODELS.fantasy.cart, 'fc'), x, z, { rotY: rng() * 6.28, block: true })
+  for (const [x, z] of [[C - 1, C - 3], [C + 1, C - 3], [C - 1, C + 3], [C + 1, C + 3]]) place(MODELS.fantasy.lantern, x, z, {})
+  for (const [x, z] of [[C - 3, C], [C + 3, C]]) place(pick(MODELS.fantasy.banner, 'fb'), x, z, { block: true })
+  // aldea: 2 hileras de casas a cada lado, con setos/jardines
+  for (const bx of [10, 13, 33, 36]) for (let z = 12; z <= 34; z += 3) { cottage(bx, z, bx < C ? Math.PI / 2 : -Math.PI / 2); if (rng() < 0.6) place(pick(MODELS.fantasy.hedge, 'fh'), bx + (bx < C ? 1 : -1), z, { block: true }); if (rng() < 0.4) place(pick(MODELS.nature.tree, 'fvt'), bx, z + 1, { block: true }) }
+  // castillo grande al norte
+  const cxs = [8, 12, 34, 38], cz0 = 5
+  for (const x of cxs) { place(MODELS.castle.towerBase, x, cz0, { block: true, occ: true }); place(MODELS.castle.towerMid, x, cz0, { y: 1.2, occ: true }); place(MODELS.castle.towerTop, x, cz0, { y: 2.4, occ: true }); place(pick(MODELS.castle.flag, 'cf'), x, cz0, { y: 3.4 }) }
+  for (let x = 8; x <= 38; x++) if (!cxs.includes(x)) place(x === C ? MODELS.castle.gate : MODELS.castle.wall, x, cz0 + 1, { block: x !== C, occ: true })
+  place(MODELS.castle.towerBase, C, cz0 - 2, { block: true, occ: true }); place(MODELS.castle.towerMid, C, cz0 - 2, { y: 1.2, occ: true }); place(MODELS.castle.towerTop, C, cz0 - 2, { y: 2.4, occ: true }) // torreón central
+  // bosque MUY denso al este + oeste (afuera de la aldea)
+  const forest = (x0, x1) => { for (let x = x0; x < x1; x++) for (let z = 10; z < GRID - 6; z++) { if (blocked[idx(x, z)]) continue; const r = rng(); if (r < 0.55) place(pick(MODELS.nature.tree, 'ff'), x, z, { rotY: rng() * 6.28, block: true }); else if (r < 0.68) place(pick(MODELS.nature.rock, 'fr'), x, z, { block: true }); else if (r < 0.82) place(pick([...MODELS.nature.plant, ...MODELS.nature.mushroom, ...MODELS.nature.stump], 'fpp'), x, z, {}) } }
+  forest(40, GRID - 1); forest(1, 7)
+  // mazmorra al sur
+  groundPatch(17, 29, 34, 41, 0x5a5148, 0.004)
+  place(MODELS.dungeon.gate, C, 35, { block: true, occ: true })
+  for (const [x, z] of [[C - 3, 37], [C + 3, 37], [C - 4, 39], [C + 4, 39], [C - 1, 40], [C + 1, 40]]) place(pick([MODELS.dungeon.barrel, MODELS.dungeon.chest, MODELS.dungeon.column, MODELS.dungeon.rocks], 'dg'), x, z, { block: true })
+  place(MODELS.dungeon.orc, C - 1, 38, {}); place(MODELS.dungeon.orc, C + 2, 39, {})
+  // detalles de pasto por todo el mapa (bushes/flores)
+  for (let i = 0; i < 120; i++) { const x = 1 + Math.floor(rng() * (GRID - 2)), z = 1 + Math.floor(rng() * (GRID - 2)); if (!blocked[idx(x, z)] && rng() < 0.5) place(pick([...MODELS.nature.plant, ...MODELS.nature.flower], 'gg'), x, z, {}) }
+  addPortal(C, C + 4, 'city', 0x2fbf6a)
+  return { x: C, z: C + 2 }
 }
 
 // ============================================================
